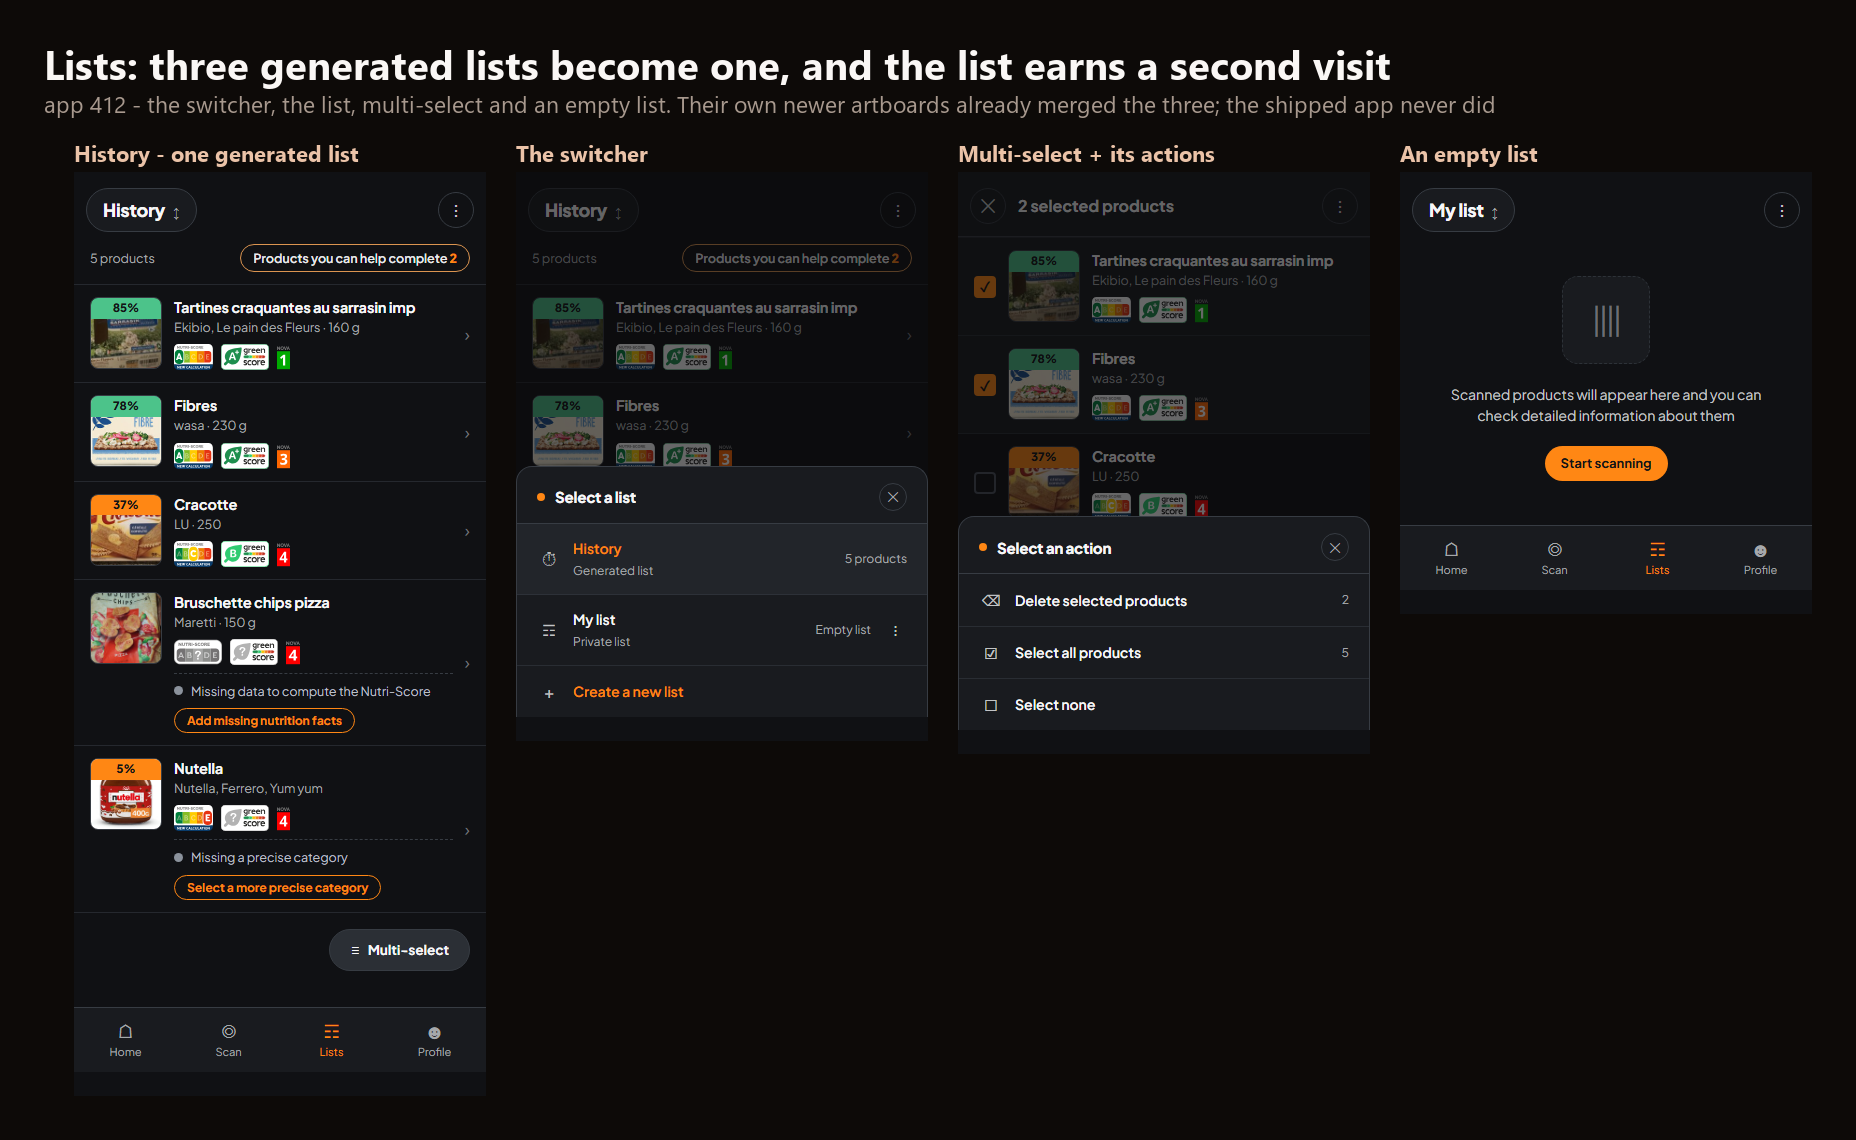
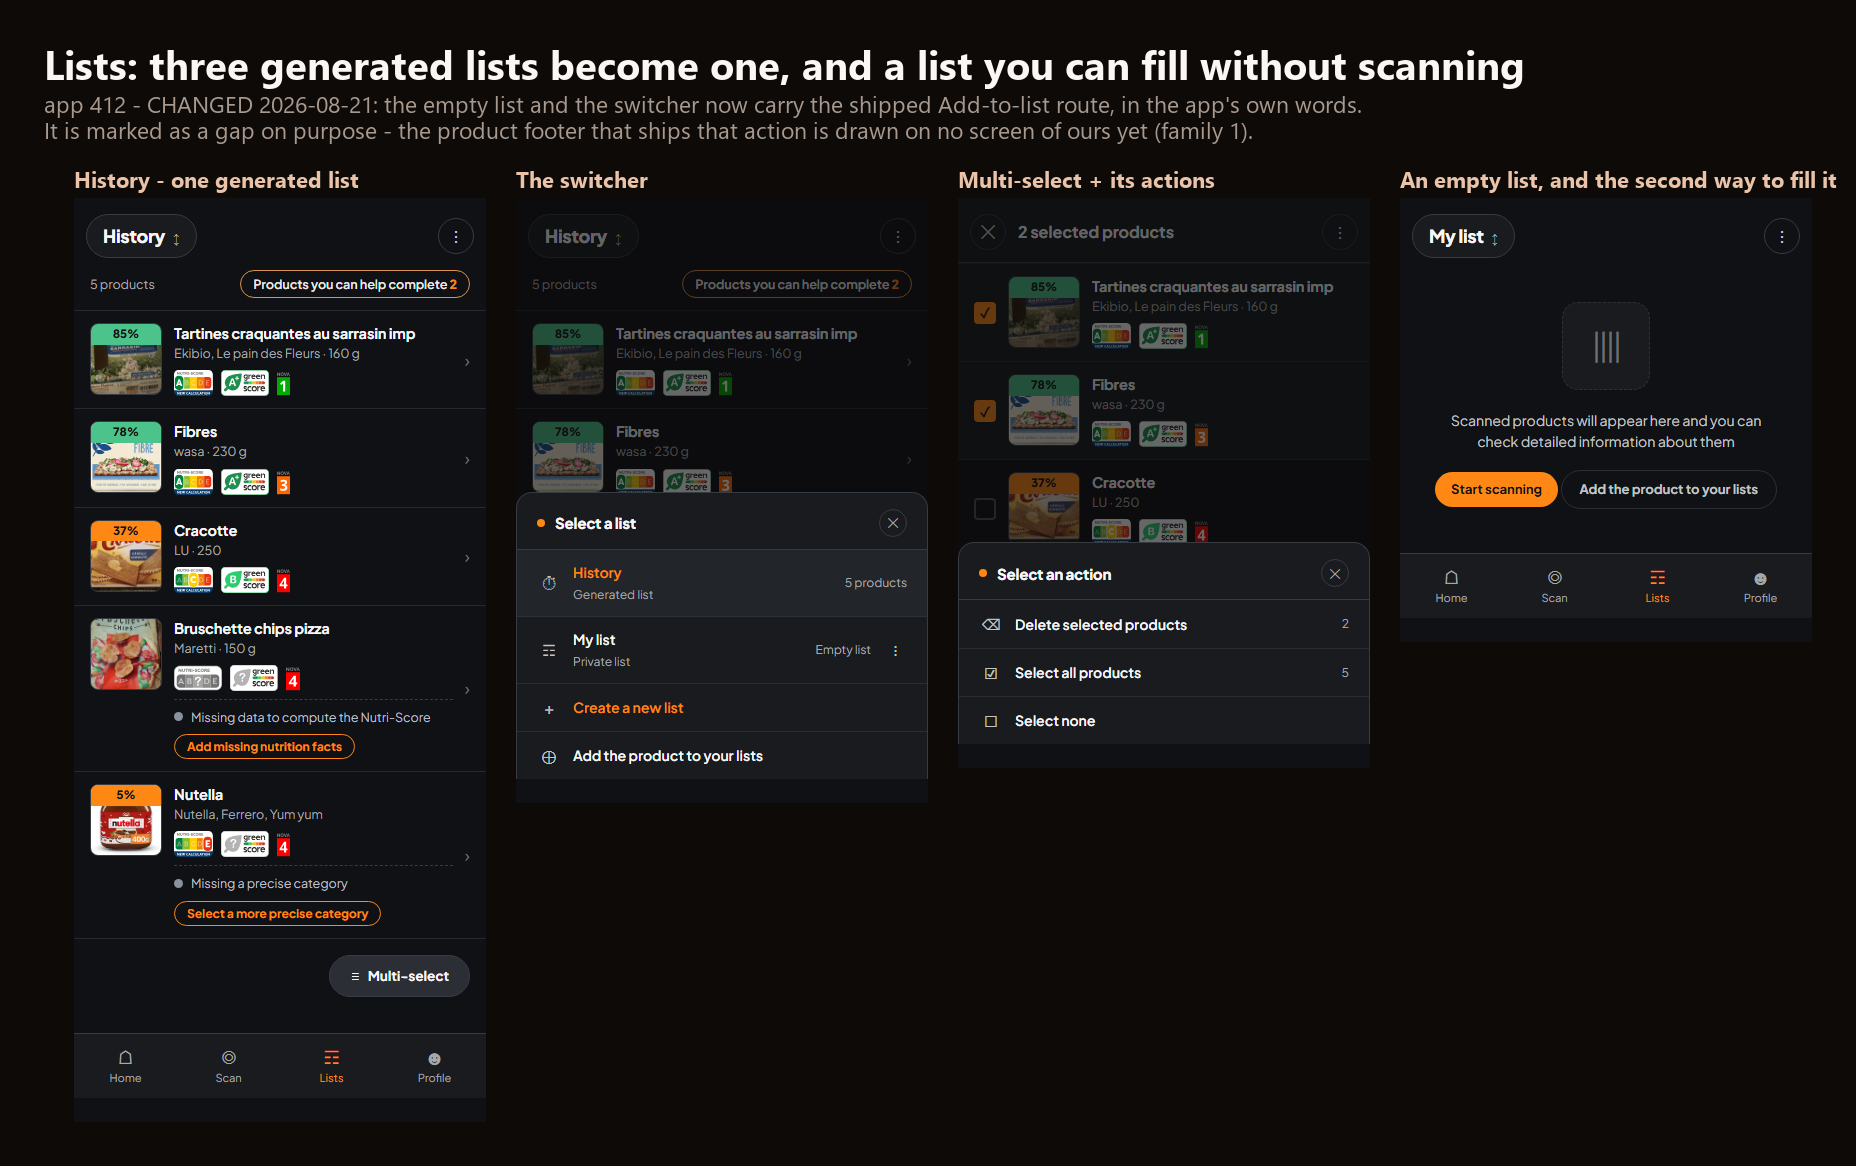
07-scan-states redrawn: full-bleed scanner + one bottom sheet per scan, carousel dropped, 8 states. 08-lists: the empty state and the switcher now carry the shipped Add-to-list route

diff --git a/07-scan-states/scan-found-open.html b/07-scan-states/scan-found-open.html
@@ -1,0 +1,82 @@
+<!doctype html>
+<html lang="en">
+<head>
+<meta charset="utf-8">
+<meta name="viewport" content="width=device-width, initial-scale=1">
+<title>Scan - a product with full data, expanded</title>
+<link rel="stylesheet" href="mock.css">
+<link rel="stylesheet" href="../shared/proto.css">
+<script src="../shared/proto-theme.js" defer></script>
+</head>
+<body>
+
+<!-- shell: Scan tab = the FULL-SCREEN scanner, and a scanned product arrives as a bottom sheet over the video (shell-contract.md line 16). The flat four-slot bar stays on it, because Scan is a TAB and not a modal (same file, the block CLOSED 2026-08-18). -->
+
+<div class="app full">
+
+  <div class="scan">
+    <div class="ctop">
+      <a class="chip" href="scan-default.html">Clear</a>
+      <span class="chip off" title="Please scan at least two products to compare them">Compare one Product</span>
+      <span class="spacer"></span>
+      <span class="cbtn" title="Toggle camera">&#8646;</span>
+      <span class="cbtn" title="Toggle torch">&#9788;</span>
+    </div>
+
+    <div class="reticle"><i class="tl"></i><i class="tr"></i><i class="bl"></i><i class="br"></i><span class="glyph">&#9906;</span></div>
+
+    <!-- ⭐ THE SECOND HEIGHT - the same sheet dragged up. It is the peek plus the remaining
+         criterion rows plus the drill-in, and it is why the left/right carousel is not needed:
+         one product at a time, in two heights, instead of `barcodes.length + 1` pages.
+         ⚠ 36% of the screen. The shipped flagged card caps at `maxHeight: 0.35 x screen`
+         (camera_view.dart:131), so an implementer either raises that cap or scrolls the sheet -
+         it is a real number, not a rounding difference. -->
+    <div class="csheet">
+      <div class="grab">
+        <span class="bar"></span>
+        <a class="x" href="scan-default.html" title="Remove this product from the carousel">&#10005;</a>
+      </div>
+      <div class="cbody">
+        <div class="pident">
+          <div class="thumb"><img src="https://images.openfoodfacts.org/images/products/730/040/048/1588/front_en.269.200.jpg" alt=""></div>
+          <div class="t">
+            <div class="nm">Fibres</div>
+            <div class="sub">wasa &middot; 230 g</div>
+            <div class="sub"><span class="pill quiet"><b class="badge">78%</b>Very good match</span></div>
+          </div>
+        </div>
+
+        <div class="srows">
+          <div class="srow2">
+            <img src="https://static.openfoodfacts.org/images/attributes/dist/nutriscore-a-new-en.svg" alt="Nutri-Score A">
+            <span class="t"><b>Nutri-Score A</b><i>Very good nutritional quality</i></span>
+          </div>
+          <div class="srow2">
+            <img src="https://static.openfoodfacts.org/images/attributes/dist/green-score-a-plus.svg" alt="Green-Score A+">
+            <span class="t"><b>Green-Score A+</b><i>Very low environmental impact</i></span>
+          </div>
+          <div class="srow2">
+            <img src="https://static.openfoodfacts.org/images/attributes/dist/nova-group-3.svg" alt="Processed foods">
+            <span class="t"><b>Processed foods</b></span>
+          </div>
+        </div>
+      </div>
+      <a class="cfoot todo" title="The product page is drawn for Nutella only, not for this barcode">
+        <span>Tap to see more info&hellip;</span>
+        <span class="spacer"></span>
+        <span>&rarr;</span>
+      </a>
+    </div>
+  </div>
+
+  <div class="tabbar">
+    <a href="../03-home/home-app.html"><span class="g">&#9750;</span>Home</a>
+    <a class="on"><span class="g">&#9678;</span>Scan</a>
+    <a href="../08-lists/lists-history.html"><span class="g">&#9782;</span>Lists</a>
+    <a href="../04-profile/profile-in.html"><span class="g">&#9787;</span>Profile</a>
+  </div>
+
+</div>
+
+</body>
+</html>
